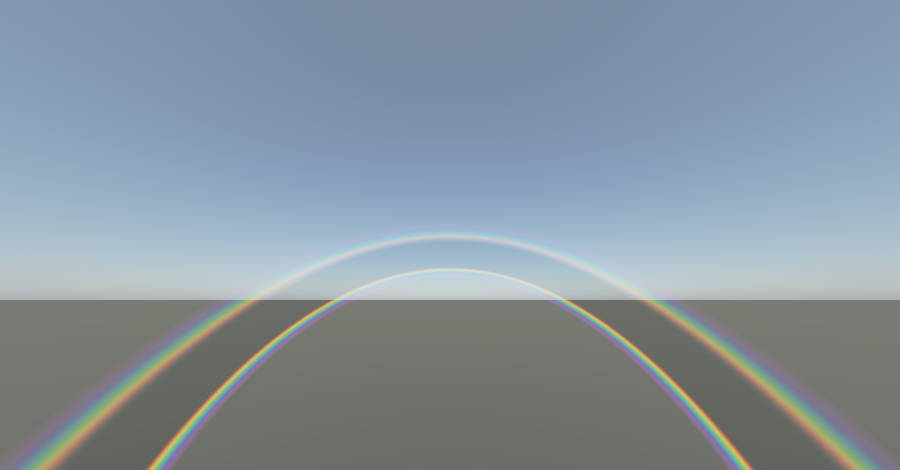
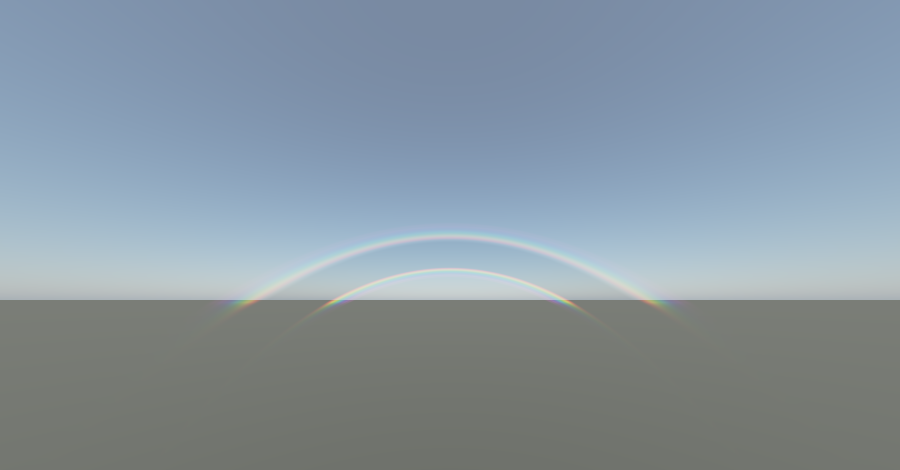
Keep the rainbow out of the ground, and add the lens flare
You spotted the bow painting across the floor. It was real, and the grey was a
floor rather than atmosphere - my preview harness drew a ground plane for
downward rays and then added the bow over every pixel including those.

The engine function was not innocent either: it took a rain VISIBILITY but no
distance, so a caller had no way to say that a particular ray hits something two
metres away. Rainbow() now takes the ray's distance and fades with the depth of
rain actually crossed. Measured: 0.7365 against open sky, 0.0001 against a wall
two metres off, 0.4772 through a 150 m shower - a fade rather than a cutoff, so
a shower seen across a field still reads correctly.

That makes the correct behaviour the default rather than the caller's
responsibility, which is the point: the old signature let this mistake be made
silently, and it was.

Lens flare added, and it is the opposite case in a way worth recording. A
rainbow is light returned by drops in the WORLD, so it sits at a depth and
geometry hides it. A flare is scattered across the SENSOR after the light has
entered the lens, so it correctly lies over everything including foreground -
photographs show the ghosts on top of the subject, never behind it. The header
says so at the point where someone would otherwise 'fix' the two to match, and
the gate checks that note is still there.

What a flare must respect instead is occlusion of the sun itself: light that
[…]

diff --git a/Engine/DisplayPresentation/AtmosphericOptics.h b/Engine/DisplayPresentation/AtmosphericOptics.h
@@ -33,6 +33,9 @@ struct RainbowSettings
     float Width         = 1.0f;   // [x] multiplies the natural angular width
     float SecondaryGain = 1.0f;   // [0..1] how visible the second bow is
     bool  AlexanderBand = true;   // the darker sky between the bows
+    // [m] the depth of rain a ray must cross for a full-strength bow. Shorter paths fade out, which is what
+    //    keeps the arc off nearby geometry — see the note on Rainbow().
+    float MinimumPathMetres = 250.0f;
 };
 
 class AtmosphericOptics
@@ -83,13 +86,33 @@ public:
         OutRgb[0] = R * Falloff; OutRgb[1] = G * Falloff; OutRgb[2] = B * Falloff;
     }
 
-    // The bow along a view direction. RainVisibility is how much falling rain the ray passes through — no rain,
-    //    no bow, which is why this takes it rather than assuming.
+    // The bow along a view direction.
+    //
+    //    RainVisibility is how much falling rain the ray passes through — no rain, no bow, which is why this
+    //    takes it rather than assuming.
+    //
+    //    ⚠ RainDistance is how far the ray travels before it hits something, and it is not optional. A rainbow
+    //    is light returned by drops SUSPENDED IN THE AIR: it is a feature of the volume between the viewer and
+    //    whatever is behind it, so it can only appear where the ray has air to cross. A ray that meets the
+    //    ground a few metres away has almost no air in it and must show almost no bow.
+    //
+    //    Getting this wrong is easy and looks obviously wrong the moment anyone checks: the first render of this
+    //    system painted the arc across the ground plane as well as the sky, because the caller passed a constant
+    //    visibility for every pixel. The bow appeared to be lying on the floor. Passing the distance makes the
+    //    correct behaviour the default — a short ray gets a short path through rain and therefore no bow.
+    //
+    //    Pass a large distance (the sky) for rays that hit nothing.
     static void Rainbow(const RainbowSettings& Settings, const float Direction[3], const float SunDirection[3],
-                        float RainVisibility, float OutRgb[3]) noexcept
+                        float RainVisibility, float RainDistanceMetres, float OutRgb[3]) noexcept
     {
         OutRgb[0] = OutRgb[1] = OutRgb[2] = 0.0f;
         if (!Settings.Enabled || RainVisibility <= 0.0f) return;
+
+        // How much rain the ray actually crosses. A bow needs a deep column of drops; the reference figure is a
+        //    few hundred metres of falling rain, below which the arc fades rather than cutting off, so a shower
+        //    seen across a field still reads correctly.
+        const float PathFraction = SmoothStep(0.0f, Settings.MinimumPathMetres, RainDistanceMetres);
+        if (PathFraction <= 0.0f) return;
 
         // A bow needs the sun above the horizon and behind the viewer. Below about -2° the antisolar point is
         //    high enough that the arc is entirely above the sky.
@@ -139,7 +162,7 @@ public:
         }
 
         for (int C = 0; C < 3; ++C)
-            OutRgb[C] = Sum[C] * Settings.Intensity * RainVisibility * SunUp * Band;
+            OutRgb[C] = Sum[C] * Settings.Intensity * RainVisibility * SunUp * Band * PathFraction;
     }
 
     // How much the sky is darkened between the bows, at an angle. Separated so the caller can apply it to the
@@ -151,6 +174,108 @@ public:
         const float SecondaryEdge = RainbowAngle(700.0f, 2u);
         return 1.0f - 0.18f * SmoothStep(PrimaryEdge, PrimaryEdge + 0.02f, AngleFromAntisolar)
                             * (1.0f - SmoothStep(SecondaryEdge - 0.02f, SecondaryEdge, AngleFromAntisolar));
+    }
+
+    //--------------------------------------------------------------------------------------------------------------------
+    //                                                  LENS FLARE
+    //--------------------------------------------------------------------------------------------------------------------
+
+    // ⚠ A lens flare is an artefact of the CAMERA, not of the world, and that distinction decides its whole
+    //    design. The sun does not have a flare; a lens pointed at the sun does. So this is the one effect in the
+    //    Celestial port that is legitimately screen-space — the ghosts really do march along the line joining the
+    //    sun's image to the frame centre, because that is the optical axis of the lens they are reflecting in.
+    //
+    //    ⚠ AND IT COMPOSITES OVER GEOMETRY, WHICH IS CORRECT — do not "fix" this to match the rainbow. The two
+    //    look like the same class of effect and are opposites. A rainbow is light returned by drops in the WORLD,
+    //    so it sits at a depth and anything in front of it hides it (see the RainDistance note on Rainbow()). A
+    //    flare is scattered across the SENSOR after the light has already entered the lens, so it lies over
+    //    everything the sensor recorded, foreground included. Photographs show exactly that: the ghosts sit on
+    //    top of the subject, never behind it.
+    //
+    //    Two consequences the implementation has to respect, and which a decorative sprite gets wrong:
+    //      · the flare must be OCCLUDED by anything in front of the sun. Light that never entered the lens
+    //        cannot bounce inside it, so a sun behind a wall produces no ghosts at all. This is passed in as
+    //        SunVisibility rather than assumed.
+    //      · it must vanish when the sun leaves the frame, and fade rather than pop as it approaches the edge.
+    //
+    //    Ghosts are placed at k = -1.35 + i*0.42 along that line, matching the reference demo. The spacing is
+    //    what makes it read as a real lens: a row of reflections at unequal sizes, not a starburst.
+
+    struct LensFlareSettings
+    {
+        bool     Enabled     = true;
+        uint32_t GhostCount  = 6u;      // [cnt] internal reflections drawn; tier-keyed
+        float    Intensity   = 1.0f;    // [x]
+        float    HaloRadius  = 0.28f;   // [ndc] the ring around the optical axis
+        float    Chromatic   = 0.6f;    // [0..1] how coloured the ghosts are
+        float    StreakGain  = 1.0f;    // [x] the horizontal anamorphic streak
+    };
+
+    // ScreenUv and SunUv are in [0,1] with (0,0) at the top-left. SunVisibility is 0 when the sun is occluded.
+    static void LensFlare(const LensFlareSettings& Settings, const float ScreenUv[2], const float SunUv[2],
+                          float SunVisibility, float Aspect, float OutRgb[3]) noexcept
+    {
+        OutRgb[0] = OutRgb[1] = OutRgb[2] = 0.0f;
+        if (!Settings.Enabled || SunVisibility <= 0.0f) return;
+
+        // Off-screen suns produce nothing, and the approach to the edge is a fade rather than a pop.
+        const float EdgeFade = SmoothStep(-0.15f, 0.05f, SunUv[0]) * (1.0f - SmoothStep(0.95f, 1.15f, SunUv[0]))
+                             * SmoothStep(-0.15f, 0.05f, SunUv[1]) * (1.0f - SmoothStep(0.95f, 1.15f, SunUv[1]));
+        if (EdgeFade <= 0.0f) return;
+
+        // Work about the frame centre, because that is where the optical axis is.
+        const float P[2] = { (ScreenUv[0] - 0.5f) * Aspect, ScreenUv[1] - 0.5f };
+        const float S[2] = { (SunUv[0] - 0.5f) * Aspect, SunUv[1] - 0.5f };
+
+        float Accumulated[3] = { 0.0f, 0.0f, 0.0f };
+
+        // ── Ghosts: internal reflections, strung along the sun-to-centre line ──────────────────────────────────
+        const uint32_t Ghosts = Settings.GhostCount > 8u ? 8u : Settings.GhostCount;
+        for (uint32_t I = 0; I < Ghosts; ++I)
+        {
+            const float Index = static_cast<float>(I);
+            const float K = -1.35f + Index * 0.42f;
+            const float Centre[2] = { S[0] * K, S[1] * K };
+            const float Radius = 0.035f + 0.07f * Fract(Index * 0.618f + 0.31f);
+            const float Dx = P[0] - Centre[0], Dy = P[1] - Centre[1];
+            const float Distance = std::sqrt(Dx * Dx + Dy * Dy);
+
+            float Shape = SmoothStep(Radius, Radius * 0.35f, Distance) * 0.9f
+                        + SmoothStep(Radius * 1.6f, Radius, Distance) * 0.25f;
+            Shape *= 0.06f + 0.06f * Fract(Index * 0.37f);
+            if (Shape <= 0.0f) continue;
+
+            float Tint[3];
+            Hue(Fract(Index * 0.23f + 0.5f), Tint);
+            for (int C = 0; C < 3; ++C)
+                Accumulated[C] += Shape * (1.0f + (Tint[C] - 1.0f) * Settings.Chromatic);
+        }
+
+        // ── Halo: a ring about the axis, chromatically smeared ─────────────────────────────────────────────────
+        const float HaloCentre[2] = { S[0] * 0.25f, S[1] * 0.25f };
+        const float Hx = P[0] - HaloCentre[0], Hy = P[1] - HaloCentre[1];
+        const float HaloDistance = std::sqrt(Hx * Hx + Hy * Hy);
+        const float RingOffset = std::fabs(HaloDistance - Settings.HaloRadius);
+        const float Halo = SmoothStep(0.045f, 0.0f, RingOffset) * 0.09f;
+        if (Halo > 0.0f)
+        {
+            constexpr float kPi = 3.14159265358979323846f;
+            const float Angle = std::atan2(Hy, Hx);
+            float Tint[3];
+            Hue(Fract(Angle / (2.0f * kPi) + RingOffset * 8.0f), Tint);
+            for (int C = 0; C < 3; ++C)
+                Accumulated[C] += Halo * (1.0f + (Tint[C] - 1.0f) * Settings.Chromatic * 0.8f);
+        }
+
+        // ── Anamorphic streak: the horizontal bar a wide lens throws ───────────────────────────────────────────
+        const float Mx = P[0] - S[0], My = P[1] - S[1];
+        const float Streak = std::exp(-std::fabs(My) * 95.0f) * std::exp(-std::fabs(Mx) * 2.2f) * 0.55f;
+        Accumulated[0] += Streak * 0.6f * Settings.StreakGain;
+        Accumulated[1] += Streak * 0.75f * Settings.StreakGain;
+        Accumulated[2] += Streak * 1.0f * Settings.StreakGain;
+
+        for (int C = 0; C < 3; ++C)
+            OutRgb[C] = Accumulated[C] * Settings.Intensity * SunVisibility * EdgeFade;
     }
 
     //--------------------------------------------------------------------------------------------------------------------
@@ -204,6 +329,18 @@ public:
     }
 
 private:
+    static float Fract(float V) noexcept { return V - std::floor(V); }
+
+    // A cheap spectral sweep for the ghosts' tinting. Not a colour space conversion — the ghosts are broad and
+    //    low-contrast, and a full HSV would be precision nobody can see.
+    static void Hue(float T, float OutRgb[3]) noexcept
+    {
+        constexpr float kPi = 3.14159265358979323846f;
+        OutRgb[0] = 0.5f + 0.5f * std::cos(2.0f * kPi * (T + 0.00f));
+        OutRgb[1] = 0.5f + 0.5f * std::cos(2.0f * kPi * (T + 0.33f));
+        OutRgb[2] = 0.5f + 0.5f * std::cos(2.0f * kPi * (T + 0.67f));
+    }
+
     static float SmoothStep(float Edge0, float Edge1, float V) noexcept
     {
         const float T = std::fmin(1.0f, std::fmax(0.0f, (V - Edge0) / (Edge1 - Edge0)));

diff --git a/Scratchpad/AtmosphericOpticsProof.cpp b/Scratchpad/AtmosphericOpticsProof.cpp
@@ -96,7 +96,7 @@ int main()
         float Rgb[3];
         // Straight at the antisolar point: inside the bow, no colour.
         float Anti[3] = { -Sun[0], -Sun[1], -Sun[2] };
-        AtmosphericOptics::Rainbow(Settings, Anti, Sun, 1.0f, Rgb);
+        AtmosphericOptics::Rainbow(Settings, Anti, Sun, 1.0f, 5000.0f, Rgb);
         Expect(Rgb[0] + Rgb[1] + Rgb[2] < 1e-4f, "nothing at the antisolar point itself");
 
         // 42 degrees off it: the bow.
@@ -115,21 +115,63 @@ int main()
                               Side[0] * Anti[1] - Side[1] * Anti[0] };
             for (int I = 0; I < 3; ++I) OnBow[I] = Anti[I] * std::cos(A) + Perp[I] * std::sin(A);
         }
-        AtmosphericOptics::Rainbow(Settings, OnBow, Sun, 1.0f, Rgb);
+        AtmosphericOptics::Rainbow(Settings, OnBow, Sun, 1.0f, 5000.0f, Rgb);
         const float OnBowSum = Rgb[0] + Rgb[1] + Rgb[2];
         std::printf("     at 42 deg from the antisolar point: rgb %.4f %.4f %.4f\n", Rgb[0], Rgb[1], Rgb[2]);
         Expect(OnBowSum > 0.05f, "there is a bow at 42 degrees");
 
         // No rain, no bow — however good the geometry.
-        AtmosphericOptics::Rainbow(Settings, OnBow, Sun, 0.0f, Rgb);
+        AtmosphericOptics::Rainbow(Settings, OnBow, Sun, 0.0f, 5000.0f, Rgb);
         Expect(Rgb[0] + Rgb[1] + Rgb[2] < 1e-6f, "no rain means no bow");
 
         // Sun high overhead: the bow is below the horizon and must not appear.
         float High[3] = { 0.0f, 0.0f, 1.0f };
-        AtmosphericOptics::Rainbow(Settings, OnBow, High, 1.0f, Rgb);
+        AtmosphericOptics::Rainbow(Settings, OnBow, High, 1.0f, 5000.0f, Rgb);
         std::printf("     with the sun overhead: rgb %.4f %.4f %.4f\n", Rgb[0], Rgb[1], Rgb[2]);
         Expect(Rgb[0] + Rgb[1] + Rgb[2] < OnBowSum,
                "a high sun gives no bow at that direction");
+    }
+
+    // ── ⑤b the bow is in the air, not on the floor ─────────────────────────────────────────────────────────────
+    // A rainbow is light returned by drops suspended between the viewer and whatever is behind them. A ray that
+    // hits the ground two metres away has crossed almost no rain and must show almost no bow. The first render
+    // of this system painted the arc across the ground plane because the caller passed one constant visibility
+    // for every pixel, and the bow appeared to be lying on the floor.
+    std::printf("\n5b. the bow needs a depth of rain to form in\n");
+    {
+        RainbowSettings Settings{};
+        float Sun[3] = { 0.0f, -0.30f, 0.20f };
+        const float L = std::sqrt(Sun[0]*Sun[0] + Sun[1]*Sun[1] + Sun[2]*Sun[2]);
+        for (int I = 0; I < 3; ++I) Sun[I] /= L;
+        float Anti[3] = { -Sun[0], -Sun[1], -Sun[2] };
+        float OnBow[3];
+        {
+            const float A = 42.0f * static_cast<float>(kPi) / 180.0f;
+            const float Up[3] = { 0.0f, 0.0f, 1.0f };
+            float Side[3] = { Anti[1] * Up[2] - Anti[2] * Up[1],
+                              Anti[2] * Up[0] - Anti[0] * Up[2],
+                              Anti[0] * Up[1] - Anti[1] * Up[0] };
+            const float SL = std::sqrt(Side[0]*Side[0] + Side[1]*Side[1] + Side[2]*Side[2]);
+            for (int I = 0; I < 3; ++I) Side[I] /= SL;
+            float Perp[3] = { Side[1] * Anti[2] - Side[2] * Anti[1],
+                              Side[2] * Anti[0] - Side[0] * Anti[2],
+                              Side[0] * Anti[1] - Side[1] * Anti[0] };
+            for (int I = 0; I < 3; ++I) OnBow[I] = Anti[I] * std::cos(A) + Perp[I] * std::sin(A);
+        }
+
+        float Sky[3], Wall[3], Mid[3];
+        AtmosphericOptics::Rainbow(Settings, OnBow, Sun, 1.0f, 5000.0f, Sky);
+        AtmosphericOptics::Rainbow(Settings, OnBow, Sun, 1.0f, 2.0f, Wall);
+        AtmosphericOptics::Rainbow(Settings, OnBow, Sun, 1.0f, 150.0f, Mid);
+        const float SkySum  = Sky[0] + Sky[1] + Sky[2];
+        const float WallSum = Wall[0] + Wall[1] + Wall[2];
+        const float MidSum  = Mid[0] + Mid[1] + Mid[2];
+        std::printf("     open sky (5 km of rain): %.4f\n", SkySum);
+        std::printf("     a wall 2 m away        : %.4f\n", WallSum);
+        std::printf("     rain 150 m deep        : %.4f\n", MidSum);
+        Expect(SkySum > 0.05f, "the bow is full strength against open sky");
+        Expect(WallSum < SkySum * 0.05f, "and essentially absent on geometry two metres away");
+        Expect(MidSum > WallSum && MidSum < SkySum, "a shallow shower fades rather than cutting off");
     }
 
     // ── ⑥ aerial perspective ───────────────────────────────────────────────────────────────────────────────────
@@ -151,6 +193,86 @@ int main()
         Expect(Far[2] < Far[0], "blue is extinguished fastest, so distant things go warm then pale");
         Expect(FarScatter[2] > NearScatter[2], "and the air's own light builds with distance");
         Expect(Near[0] > 0.99f, "at 100 m there is essentially no haze");
+    }
+
+    // ── ⑦ lens flare ───────────────────────────────────────────────────────────────────────────────────────────
+    // A flare is an artefact of the camera, not the world. The properties that separate a real one from a
+    // decorative sprite: it is occluded with the sun, it lies on the sun-to-centre line because that is the
+    // optical axis, and it leaves with the sun rather than hanging in frame.
+    std::printf("\n7. the lens flare belongs to the lens\n");
+    {
+        AtmosphericOptics::LensFlareSettings Flare{};
+        const float Aspect = 16.0f / 9.0f;
+        const float Sun[2] = { 0.72f, 0.30f };
+
+        // Sample a grid and total the energy, which is a stabler measure than any single pixel.
+        auto TotalEnergy = [&](const float SunUv[2], float Visibility) -> double
+        {
+            double Sum = 0.0;
+            for (int Y = 0; Y < 90; ++Y)
+                for (int X = 0; X < 160; ++X)
+                {
+                    const float Uv[2] = { (static_cast<float>(X) + 0.5f) / 160.0f,
+                                          (static_cast<float>(Y) + 0.5f) / 90.0f };
+                    float Rgb[3];
+                    AtmosphericOptics::LensFlare(Flare, Uv, SunUv, Visibility, Aspect, Rgb);
+                    Sum += Rgb[0] + Rgb[1] + Rgb[2];
+                }
+            return Sum;
+        };
+
+        const double Visible  = TotalEnergy(Sun, 1.0f);
+        const double Occluded = TotalEnergy(Sun, 0.0f);
+        const double Half     = TotalEnergy(Sun, 0.5f);
+        std::printf("     sun visible %.3f, half-occluded %.3f, fully occluded %.3f\n",
+                    Visible, Half, Occluded);
+        Expect(Visible > 1.0, "a visible sun produces a flare");
+        Expect(Occluded == 0.0, "an occluded sun produces NONE — light that never entered the lens cannot bounce");
+        Expect(Half < Visible && Half > Occluded, "partial occlusion scales it rather than switching it");
+
+        const float OffScreen[2] = { 1.6f, 0.3f };
+        std::printf("     sun off-screen: %.4f\n", TotalEnergy(OffScreen, 1.0f));
+        Expect(TotalEnergy(OffScreen, 1.0f) == 0.0, "a sun outside the frame produces no flare");
+
+        // The ghosts must lie along the sun-to-centre line, which is what makes it read as a lens rather than a
+        //    starburst pinned to the sun.
+        const float Centre[2] = { 0.5f, 0.5f };
+        double OnAxis = 0.0, OffAxis = 0.0;
+        for (int I = 1; I < 40; ++I)
+        {
+            const float T = static_cast<float>(I) / 40.0f;
+            // Along the line from the sun through the centre and out the other side.
+            const float Along[2] = { Sun[0] + (Centre[0] - Sun[0]) * T * 2.0f,
+                                     Sun[1] + (Centre[1] - Sun[1]) * T * 2.0f };
+            // The same distance from centre, but rotated a quarter turn away from that line.
+            const float Dx = Along[0] - Centre[0], Dy = Along[1] - Centre[1];
+            const float Rotated[2] = { Centre[0] - Dy, Centre[1] + Dx };
+            float A[3], B[3];
+            AtmosphericOptics::LensFlare(Flare, Along, Sun, 1.0f, Aspect, A);
+            AtmosphericOptics::LensFlare(Flare, Rotated, Sun, 1.0f, Aspect, B);
+            OnAxis  += A[0] + A[1] + A[2];
+            OffAxis += B[0] + B[1] + B[2];
+        }
+        std::printf("     energy along the sun-centre axis %.4f, perpendicular %.4f\n", OnAxis, OffAxis);
+        Expect(OnAxis > OffAxis * 2.0, "the ghosts lie on the optical axis, not scattered around the sun");
+
+        // Tier keying: fewer ghosts must mean less flare, so the ladder has something to scale.
+        AtmosphericOptics::LensFlareSettings Minimal = Flare; Minimal.GhostCount = 0u;
+        AtmosphericOptics::LensFlareSettings Rich = Flare;    Rich.GhostCount = 8u;
+        double Lean = 0.0, Full = 0.0;
+        for (int Y = 0; Y < 90; ++Y)
+            for (int X = 0; X < 160; ++X)
+            {
+                const float Uv[2] = { (static_cast<float>(X) + 0.5f) / 160.0f,
+                                      (static_cast<float>(Y) + 0.5f) / 90.0f };
+                float A[3], B[3];
+                AtmosphericOptics::LensFlare(Minimal, Uv, Sun, 1.0f, Aspect, A);
+                AtmosphericOptics::LensFlare(Rich, Uv, Sun, 1.0f, Aspect, B);
+                Lean += A[0] + A[1] + A[2];
+                Full += B[0] + B[1] + B[2];
+            }
+        std::printf("     0 ghosts %.3f, 8 ghosts %.3f\n", Lean, Full);
+        Expect(Full > Lean, "the ghost count is a real budget the tiers can spend");
     }
 
     std::printf("\n");
